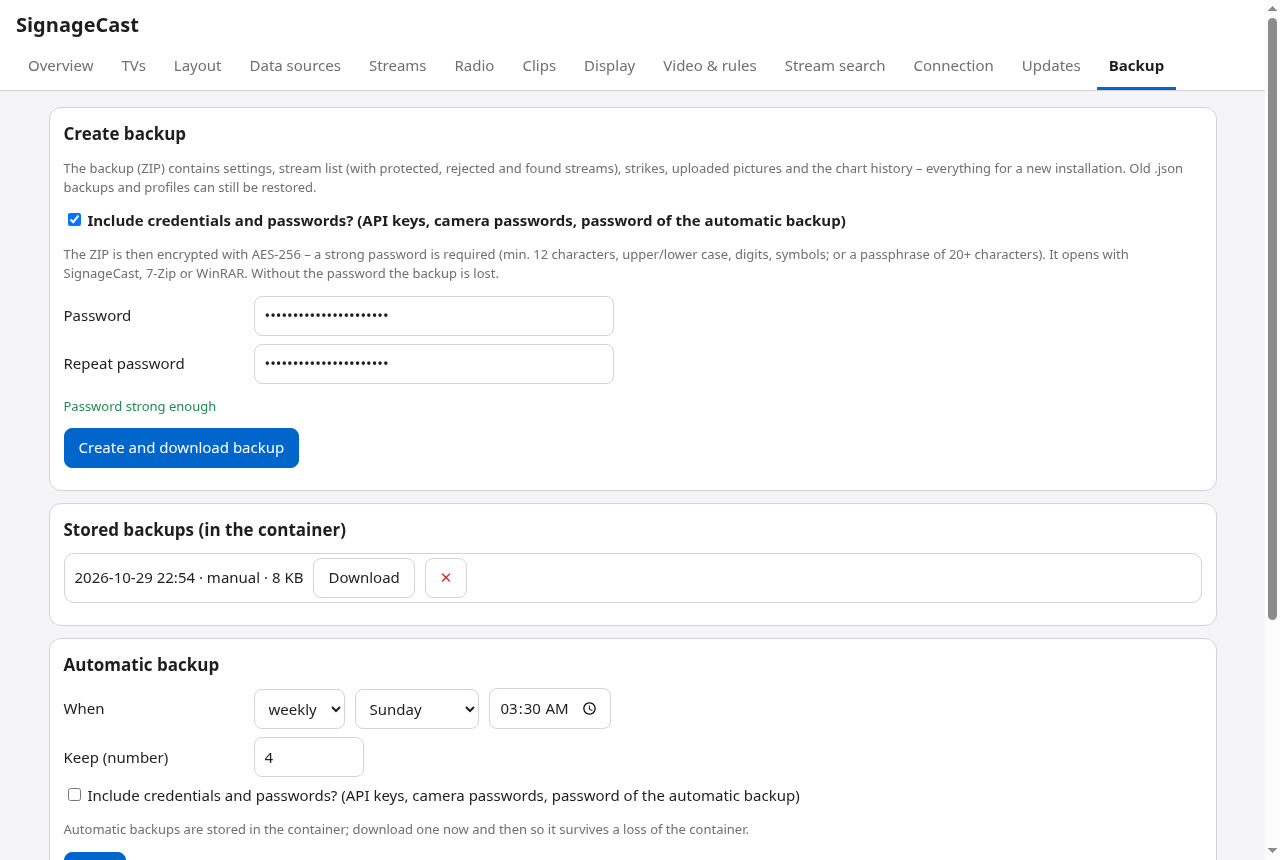
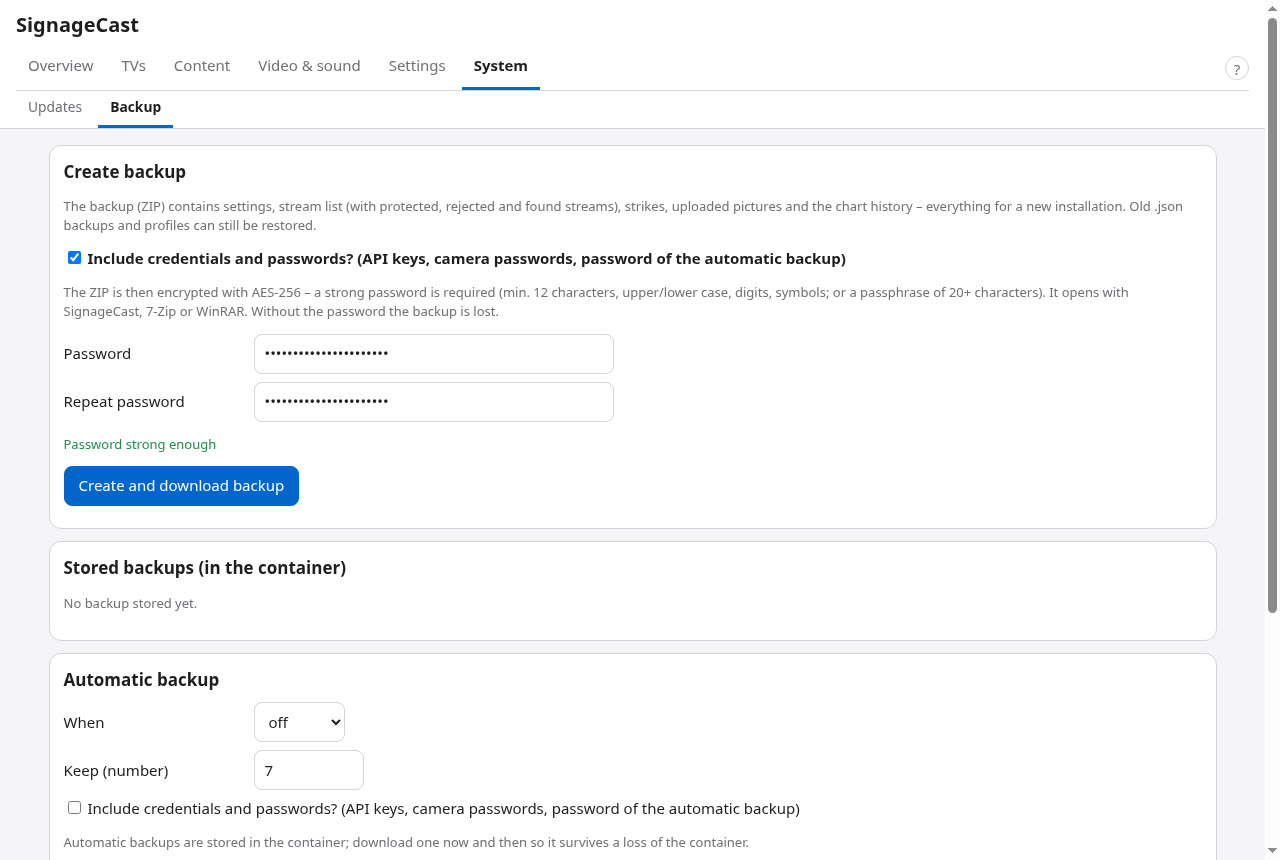
0.17: Korrekturen nach Test auf CT 104, Tour-Bilder und Doku zur neuen Navigation, Version 0.17.0
Gefunden im Test: Empfänger stand unter „Erweitert“, Anzeige-Karte ohne Überschrift und
Knopf außerhalb, HA-Wettertext auch bei MET, doppelter Knopf im Assistenten, alte Verweise
auf „Verbindung“/„Anzeige“.

Claude-Session: https://claude.ai/code/session_01LNDhmfSQXqarshduJ2BAH1

diff --git a/cockpit/signagecast/tv.js b/cockpit/signagecast/tv.js
@@ -53,7 +53,7 @@ const TEXTE = {
     epFernseher: "Fernseher (keiner gewählt = alle)", epAktiv: "aktiv", epJetzt: "Jetzt zeigen", epJetztOk: "Läuft in bis zu 15 s am Fernseher",
     epStand: "Stand", epFehler: "Fehler", epKeine: "Noch keine Einspieler.",
     wetterQuelle: "Wetterquelle", wetterQuelleArt: { met: "Eigenes Wetter (MET Norway, für den Standort)", ha: "Home Assistant (Wetter-Entität)" },
-    metText: "Wetter, Wetterbild und Vorhersage kommen direkt von MET Norway (kostenlos, weltweit) für den Standort im Reiter „Verbindung“ – Home Assistant ist dafür nicht nötig. Am Fernseher steht klein „Wetterdaten: MET Norway“ (Lizenzbedingung).",
+    metText: "Wetter, Wetterbild und Vorhersage kommen direkt von MET Norway (kostenlos, weltweit) für den Standort (unten auf dieser Seite) – Home Assistant ist dafür nicht nötig. Am Fernseher steht klein „Wetterdaten: MET Norway“ (Lizenzbedingung).",
     bnTitel: "Benachrichtigungen", bnText: "SignageCast meldet sich bei Ausfall eines Fernsehers, fehlgeschlagenem Update oder Sicherung und wenn Home Assistant länger als 5 Minuten nicht erreichbar ist – jeweils einmal, mit Entwarnung.",
     bnTelegram: "Telegram", bnBotToken: "Bot-Token", bnChatId: "Chat-ID", bnEmail: "E-Mail (SMTP)", bnServer: "SMTP-Server", bnPort: "Port",
     bnSicherheit: "Verschlüsselung", bnBenutzer: "Benutzer", bnPasswort: "Passwort", bnAbsender: "Absender", bnEmpfaenger: "Empfänger (mit Komma trennen)",
@@ -86,7 +86,7 @@ const TEXTE = {
     neueVersion: (v) => `Neue Version ${v} verfügbar`, updateText: "Zum Aktualisieren den Befehl als root im Container ausführen (Einstellungen und Daten bleiben).",
     updateTextContainer: "Zum Aktualisieren das neue Image holen und den Container neu erstellen (Einstellungen und Daten im Volume bleiben):",
     systemSeitenContainer: "Protokolle: docker logs signagecast (bzw. podman logs). Neustart und Update über Docker/Podman.",
-    passwortHinweisContainer: "Hinweis: Du meldest dich noch mit dem Startpasswort aus dem Protokoll an – bitte unter „Verbindung“ ein eigenes festlegen.",
+    passwortHinweisContainer: "Hinweis: Du meldest dich noch mit dem Startpasswort aus dem Protokoll an – bitte unter System → Zugang ein eigenes festlegen.",
     verwaltungTitel: "Anmeldung an der Verwaltung", pwAlt: "Bisheriges Passwort", pwNeu: "Neues Passwort (mind. 8 Zeichen)",
     pwAendern: "Passwort ändern", pwGeaendert: "Passwort geändert", abmelden: "Abmelden",
     kodierungKarte: "Videokodierung", kodierungArt: { vaapi: "Grafikeinheit (VAAPI)", software: "Software (CPU)" },
@@ -209,7 +209,7 @@ const TEXTE = {
     epFernseher: "TVs (none selected = all)", epAktiv: "active", epJetzt: "Show now", epJetztOk: "Plays on the TV within 15 s",
     epStand: "Version", epFehler: "Error", epKeine: "No clips yet.",
     wetterQuelle: "Weather source", wetterQuelleArt: { met: "Own weather (MET Norway, for the location)", ha: "Home Assistant (weather entity)" },
-    metText: "Weather, weather picture and forecast come directly from MET Norway (free, worldwide) for the location in the “Connection” tab – Home Assistant is not needed for this. The TV shows a small “Weather data: MET Norway” (licence requirement).",
+    metText: "Weather, weather picture and forecast come directly from MET Norway (free, worldwide) for the location (further down on this page) – Home Assistant is not needed for this. The TV shows a small “Weather data: MET Norway” (licence requirement).",
     bnTitel: "Notifications", bnText: "SignageCast reports when a TV fails, an update or backup fails, and when Home Assistant is unreachable for more than 5 minutes – once each, with an all-clear.",
     bnTelegram: "Telegram", bnBotToken: "Bot token", bnChatId: "Chat ID", bnEmail: "E-mail (SMTP)", bnServer: "SMTP server", bnPort: "Port",
     bnSicherheit: "Encryption", bnBenutzer: "User", bnPasswort: "Password", bnAbsender: "Sender", bnEmpfaenger: "Recipients (comma separated)",
@@ -274,7 +274,7 @@ const TEXTE = {
     neueVersion: (v) => `New version ${v} available`, updateText: "To update, run this command as root inside the container (settings and data are kept).",
     updateTextContainer: "To update, pull the new image and recreate the container (settings and data in the volume are kept):",
     systemSeitenContainer: "Logs: docker logs signagecast (or podman logs). Restart and update via Docker/Podman.",
-    passwortHinweisContainer: "Note: you are still using the initial password from the log – please set your own under “Connection”.",
+    passwortHinweisContainer: "Note: you are still using the initial password from the log – please set your own under System → Access.",
     verwaltungTitel: "Admin login", pwAlt: "Current password", pwNeu: "New password (min. 8 characters)",
     pwAendern: "Change password", pwGeaendert: "Password changed", abmelden: "Log out",
     kodierungKarte: "Video encoding", kodierungArt: { vaapi: "Graphics unit (VAAPI)", software: "Software (CPU)" },
@@ -527,7 +527,7 @@ async function assistent(inhalt, n = 1) {
     inhalt.innerHTML = `<div class="karte assistent">${kopf}<p>${esc(T.as.ort)}</p>
       <div class="zeile"><input type="text" id="asOrt" data-frei placeholder="${esc(T.ortSuche)}" value="${esc(E.standort.name || "")}">
         <button class="knopf" id="asSuchen">${esc(T.suchen)}</button></div><div id="asOrte"></div>
-      <p class="leise" id="asStand">${E.standort.name ? esc(E.standort.name) + " · " : ""}${E.standort.breite} / ${E.standort.laenge}</p>${fuss(true, true)}</div>`;
+      <p class="leise" id="asStand">${E.standort.name ? esc(E.standort.name) + " · " : ""}${E.standort.breite} / ${E.standort.laenge}</p>${fuss()}</div>`;
     const suchen = (e) => aktion(e.target, async () => {
       const r = await holen("/api/ort/suche?q=" + encodeURIComponent($("#asOrt").value));
       if (!r.ok) throw new Error(r.fehler);
@@ -783,16 +783,16 @@ function streamKarte(s) {
 async function anzeige(inhalt) {
   const ents = await entitaeten();
   inhalt.innerHTML = `<datalist id="ents">${ents.filter((x) => x.id.startsWith("weather.")).map((x) => `<option value="${esc(x.id)}">${esc(x.name)}</option>`).join("")}</datalist>
-    <div class="karte">
+    <div class="karte"><h2>${esc(T.reiter.anzeige)}</h2>
       <div class="zeile"><label>${esc(T.sprache)}</label><select id="sprache"><option value="de">Deutsch</option><option value="en">English</option></select></div>
       <div class="zeile"><label>${esc(T.wetterQuelle)}</label><select id="wetterQ" class="breit">${Object.keys(T.wetterQuelleArt).map((k) =>
         `<option value="${k}" ${k === E.anzeige.wetter_quelle ? "selected" : ""}>${esc(T.wetterQuelleArt[k])}</option>`).join("")}</select></div>
       <p class="leise" id="metText">${esc(T.metText)}</p>
       <div class="zeile" id="haZeile"><label>${esc(T.wetter)}</label><input type="text" id="wetter" list="ents" value="${esc(E.anzeige.wetter)}"></div>
-      <p class="leise">${esc(T.wetterText)}</p></div>
-    <div class="zeile"><button class="knopf haupt" id="okAnz">${esc(T.speichern)}</button></div>`;
+      <p class="leise" id="haText">${esc(T.wetterText)}</p>
+      <div class="zeile"><button class="knopf haupt" id="okAnz">${esc(T.speichern)}</button></div></div>`;
   $("#sprache").value = E.sprache || "de";
-  const sicht = () => { const ha = $("#wetterQ").value === "ha"; $("#haZeile").style.display = ha ? "" : "none"; $("#metText").style.display = ha ? "none" : ""; };
+  const sicht = () => { const ha = $("#wetterQ").value === "ha"; $("#haZeile").style.display = ha ? "" : "none"; $("#haText").style.display = ha ? "" : "none"; $("#metText").style.display = ha ? "none" : ""; };
   $("#wetterQ").onchange = sicht; sicht();
   $("#okAnz").onclick = async (e) => {
     await speichernE({ sprache: $("#sprache").value, anzeige: { wetter_quelle: $("#wetterQ").value, wetter: $("#wetter").value } }, e.target);
@@ -899,11 +899,11 @@ async function verbindung(inhalt, teil = "ha") {
         <input type="number" id="bnEmPort" min="1" max="65535" value="${B.email.port}" aria-label="${esc(T.bnPort)}"></div>
       <div class="zeile"><label>${esc(T.bnBenutzer)}</label><input type="text" id="bnEmBenutzer" value="${esc(B.email.benutzer)}" autocomplete="off"></div>
       <div class="zeile"><label>${esc(T.bnPasswort)}</label><input type="password" id="bnEmPw" value="${esc(B.email.passwort)}" autocomplete="new-password"></div>
+      <div class="zeile"><label>${esc(T.bnEmpfaenger)}</label><input type="text" id="bnEmAn" value="${esc(B.email.empfaenger)}"></div>
       <details class="erweitert"><summary>${esc(T.erweitert)}</summary>
       <div class="zeile"><label>${esc(T.bnSicherheit)}</label><select id="bnEmSich">${["starttls", "ssl", "keine"].map((v) =>
         `<option value="${v}" ${B.email.sicherheit === v ? "selected" : ""}>${v === "keine" ? "–" : v.toUpperCase()}</option>`).join("")}</select></div>
       <div class="zeile"><label>${esc(T.bnAbsender)}</label><input type="text" id="bnEmVon" value="${esc(B.email.absender)}"></div></details>
-      <div class="zeile"><label>${esc(T.bnEmpfaenger)}</label><input type="text" id="bnEmAn" value="${esc(B.email.empfaenger)}"></div>
       <div class="zeile"><button class="knopf" data-test="email">${esc(T.bnTest)}</button></div>
       <h3>${esc(T.bnHA)}</h3>
       <div class="zeile"><label><input type="checkbox" id="bnHaAktiv" ${B.ha.aktiv ? "checked" : ""}> ${esc(T.bnAktiv)}</label></div>

diff --git a/cockpit/signagecast/layout.js b/cockpit/signagecast/layout.js
@@ -46,7 +46,7 @@ const LTEXTE = {
            inhalt: "Inhalt (Text, Link oder WLAN-Daten)", beschriftung: "Beschriftung",
            immer: "auch ohne Warnung zeigen", ton: "mit Ton", stunden: "Zeitraum (Stunden)", url: "Adresse", neu_laden_min: "neu laden alle (min, 0 = nie)", zoom: "Zoom (%)",
            versatz_x: "Ausschnitt: von links (px)", versatz_y: "Ausschnitt: von oben (px)" },
-    optHilfe: { temperatur: "leer = Wetter aus „Anzeige“; oder ein Temperatur-Sensor", kamera: "z. B. Türklingel – mit Bedingung nur bei Klingeln zeigen",
+    optHilfe: { temperatur: "leer = Wetter aus Einstellungen → Allgemein; oder ein Temperatur-Sensor", kamera: "z. B. Türklingel – mit Bedingung nur bei Klingeln zeigen",
                 meldung: "Text-Entität in HA (z. B. input_text.tv_meldung). Ändert sich der Text, erscheint er als Banner.",
                 kalender: "Kalender-Entität, z. B. Müllabfuhr (Waste Collection Schedule) oder Familienkalender – oder eine iCal-Datenquelle (dann ohne HA)",
                 apiwert: "Wert aus einer Datenquelle (Reiter „Datenquellen“). Vorlage mit Platzhaltern, z. B. „{value} cm“ oder „{a.b} · {c}“; {quelle:pfad} holt Werte aus anderen Quellen.",
@@ -107,7 +107,7 @@ const LTEXTE = {
            inhalt: "Content (text, link or Wi-Fi data)", beschriftung: "Caption",
            immer: "show also without warning", ton: "with sound", stunden: "Period (hours)", url: "Address", neu_laden_min: "reload every (min, 0 = never)", zoom: "Zoom (%)",
            versatz_x: "Crop: from left (px)", versatz_y: "Crop: from top (px)" },
-    optHilfe: { temperatur: "empty = weather from “Display”; or a temperature sensor", kamera: "e.g. doorbell – with a condition only when it rings",
+    optHilfe: { temperatur: "empty = weather from Settings → General; or a temperature sensor", kamera: "e.g. doorbell – with a condition only when it rings",
                 meldung: "Text entity in HA (e.g. input_text.tv_message). When the text changes it appears as a banner.",
                 kalender: "Calendar entity, e.g. waste collection or family calendar – or an iCal data source (then without HA)",
                 apiwert: "Value from a data source (tab “Data sources”). Template with placeholders, e.g. “{value} cm” or “{a.b} · {c}”; {source:path} takes values from other sources.",

diff --git a/docs/MANUAL.md b/docs/MANUAL.md
@@ -15,16 +15,18 @@ that video, so the TV needs no app, no login and no updates.
 
 ## 2. Admin tabs at a glance
 
-| Tab | What you do there |
-|---|---|
-| **Overview** | State of every TV, viewers, CPU/RAM, time check, Home Assistant connection |
-| **TVs** | Address, layout, schedule, carousel, sound, video source (YouTube / own media / mixed), quality |
-| **Layout** | Drag elements on a 48 × 27 grid, templates, export/import with pictures |
-| **Data sources** | JSON APIs, feeds, pictures, iCal calendars, cameras; import from `curl` |
-| **Media** | Upload own pictures and videos for the video window |
-| **Streams / Radio / Clips** | Live cams, radio stations, scheduled clips (e.g. news) |
-| **Connection** | Home Assistant, location, time source, **notifications**, **message via webhook** |
-| **Updates / Backup** | Signed updates, maintenance window, encrypted backups |
+| Area | Pages | What you do there |
+|---|---|---|
+| **Overview** | – | To-do list (problems first, then tips), state of every TV, viewers, CPU/RAM, time check, Home Assistant |
+| **TVs** | – | Address, layout, schedule, carousel, sound, video source (YouTube / own media / mixed), quality |
+| **Content** | Layouts · Data sources · Media · Clips | Layout editor and templates, JSON APIs/feeds/iCal/cameras, own pictures and videos, scheduled clips |
+| **Video & sound** | Streams · Rules · Search · Radio | Live cams, rotation and quality rules, nightly search, radio stations |
+| **Settings** | General · Home Assistant · Notifications | Language, weather, location, time source; HA address and guide; Telegram/e-mail/HA and webhook |
+| **System** | Updates · Backup (· Access in Docker) | Signed updates, maintenance window, encrypted backups, admin password |
+
+Every page has its own address (e.g. `…/index.html#benachrichtigung`). Unsaved changes are marked on their card;
+rarely needed options are folded under “Advanced”. On a new installation a short assistant asks for language,
+location and (optionally) Home Assistant and shows the TV address.
 
 ## 3. Typical tasks
 
@@ -40,12 +42,12 @@ H.265 videos are refused – convert them first, e.g. `ffmpeg -i in.mp4 -c:v lib
 
 ### Severe weather warnings (Germany)
 Layout → add the element **“Weather warning (DWD)”**. It shows the official warnings of the Deutscher Wetterdienst for
-the configured location (Connection → Location), coloured by level (1 yellow, 2 orange, 3 red, 4 dark purple). Without a warning the element is hidden – or tick
+the configured location (Settings → General → Location), coloured by level (1 yellow, 2 orange, 3 red, 4 dark purple). Without a warning the element is hidden – or tick
 “show also without warning”. The data are fetched every
 10 minutes and only while a layout uses the element. Outside Germany there are no data.
 
 ### Put a short message on all TVs (webhook)
-Connection → *Message via webhook* → **Create new key**. The key is shown **only once** – store it, e.g. in a password
+Settings → Notifications → *Message via webhook* → **Create new key**. The key is shown **only once** – store it, e.g. in a password
 manager. Then any system in your network can send:
 
 ```sh
@@ -83,7 +85,7 @@ with `signagecast_webhook: "Bearer <key>"` in `secrets.yaml`, and in an automati
 `action: rest_command.signagecast_meldung` with `data: {text: "Doorbell", stil: warnung}`.
 
 ### Get notified when something breaks
-Connection → *Notifications*. Channels (any combination):
+Settings → Notifications. Channels (any combination):
 
 - **Telegram:** create a bot with @BotFather, copy the bot token; send the bot a message and read your chat id, e.g.
   from `https://api.telegram.org/bot<token>/getUpdates`. Group chats have negative ids.
@@ -137,7 +139,7 @@ It is never shown again. Create a new one and update the senders.
 
 Das Handbuch erklärt den Alltag: Zeitplan und Karussell je Fernseher, eigene Medien (H.264, kein H.265),
 **Unwetterwarnungen des DWD** als Layout-Baustein (Stufenfarben, nur Deutschland, Abruf alle 10 min nur bei Nutzung),
-**Meldung per Webhook** (Schlüssel in „Verbindung“ erzeugen – wird nur einmal angezeigt –, dann
+**Meldung per Webhook** (Schlüssel unter Einstellungen → Benachrichtigungen erzeugen – wird nur einmal angezeigt –, dann
 `POST http://<IP>:8890/meldung` mit `Authorization: Bearer <Schlüssel>` und JSON `text`, `dauer`, `stil`, optional `tv`;
 Beispiel für Home Assistant oben) und **Benachrichtigungen** über Telegram, E-Mail (SMTP) und Home Assistant bei
 Ausfall eines Fernsehers, Update- oder Sicherungsfehler und getrenntem Home Assistant – je einmal, mit Entwarnung,

diff --git a/docs/TOUR.md b/docs/TOUR.md
@@ -1,7 +1,9 @@
 # SignageCast – screenshot tour
 
 A walk through SignageCast: what the TV shows and how you set it up in the browser. All pictures are from a demo
-installation (location Berlin, public example data, no Home Assistant connected) running version 0.13.
+installation (location Berlin, public example data, no Home Assistant connected). The admin pages overview, TVs,
+settings, notifications, backup and phone show version 0.17 with its six areas (Overview, TVs, Content, Video & sound,
+Settings, System); the content pages are from version 0.13 and look the same apart from the navigation bar.
 
 [← back to the README](../README.md)
 
@@ -33,7 +35,8 @@ next to Cockpit's own pages. If your server already runs Cockpit, SignageCast in
 ![SignageCast as a menu entry in Cockpit](tour/03-cockpit.jpg)
 
 ### 4. Overview
-Every TV with its state and sound, viewers, weather source, time check against NTP (“time from the host,
+At the top a **to-do list**: problems first (e.g. Home Assistant not reachable), then tips (automatic backup off, no
+notification set up) – each entry links to the page where you fix it. Below, every TV with its state and sound, viewers, weather source, time check against NTP (“time from the host,
 synchronised”), video encoding (graphics unit or software fallback), Home Assistant connection, CPU, RAM, uptime.
 
 ![Overview](tour/04-overview.jpg)
@@ -82,11 +85,12 @@ container preloads each new edition (complete or only the first MB), so the clip
 
 ![Clip settings with buffer](tour/11-clips.jpg)
 
-### 12. Connection
-Home Assistant address (optional), location by place search, time source: NTP server (default: the country pool) and
-time zone – if the host keeps its clock synchronised, nothing is corrected.
+### 12. Settings → General
+Language and weather source, location by place search, time source: NTP server (default: the country pool) and time
+zone – if the host keeps its clock synchronised, nothing is corrected. Home Assistant has its own page next to it.
+Unsaved changes are marked on their card, and you are asked before leaving the page.
 
-![Connection and time source](tour/12-connection.jpg)
+![Settings: display, location and time source](tour/12-settings.jpg)
 
 ### 13. Updates
 System (Debian) and SignageCast updates with one click or automatically within a maintenance window, only while
@@ -109,17 +113,24 @@ initial password is printed in the container log.
 ![Login page of the container image](tour/15-docker-login.jpg)
 
 ### 16. On the phone
-The admin works on a phone as well – switch elements on and off, change sizes, sound, sources.
+The admin works on a phone as well – the areas become one menu; switch elements on and off, change sizes, sound, sources.
 
 <img src="tour/16-mobile.jpg" width="320" alt="Admin on a phone">
+
+### 17. Notifications and webhook
+Telegram, e-mail (SMTP) and Home Assistant, each with a test button; rarely needed options under “Advanced”. Below,
+the webhook for short messages on the TVs (key shown only once).
+
+![Notifications and webhook](tour/17-notifications.jpg)
 
 ---
 
 ## Deutsch (kurz)
 
-Die Tour zeigt zuerst zwei Fernseher – Live-Tierkamera mit Wetter und eigenen Daten (Rheinpegel, Bitcoin, Countdown)
+Die Verwaltung ist seit 0.17 in sechs Bereiche gegliedert (Übersicht mit „Zu erledigen“, Fernseher, Inhalte,
+Video & Ton, Einstellungen, System). Die Tour zeigt zuerst zwei Fernseher – Live-Tierkamera mit Wetter und eigenen Daten (Rheinpegel, Bitcoin, Countdown)
 sowie ein reines Daten-Layout (Diagramm mit echten Pegelwerten, Feiertage per iCal, Feed, QR-Code). Danach die
-Verwaltung: SignageCast als Menüpunkt in Cockpit, Übersicht, Fernseher, Layout-Editor mit Pfad-Auswahl, Datenquellen
+Verwaltung: SignageCast als Menüpunkt in Cockpit, Übersicht mit „Zu erledigen“, Fernseher, Layout-Editor mit Pfad-Auswahl, Datenquellen
 mit Antwort-Baum und curl-Import, Streams, Radio, Einspieler mit Puffer, Verbindung mit Zeitquelle, Updates
 (signiert, mit Rückkehr bei Fehlern), Sicherung (AES-256 mit Zugangsdaten), die Anmeldeseite im Docker-Betrieb und
-die Ansicht auf dem Handy. Alle Bilder stammen aus einer Demo-Installation ohne private Daten.
+die Ansicht auf dem Handy sowie Benachrichtigungen und Webhook. Alle Bilder stammen aus einer Demo-Installation ohne private Daten.

diff --git a/README.md b/README.md
@@ -41,6 +41,8 @@ Made for the living room, waiting rooms of practices and company receptions. Fre
   messages from other systems (e.g. Home Assistant) as a banner on the TVs via a webhook with a secret key; notifications
   via Telegram, e-mail or Home Assistant when a TV fails, an update or backup fails or Home Assistant is disconnected.
 - **Energy saving** – rendering runs only while someone watches; schedules can switch a TV to night mode or black.
+- **Clear admin** – six areas with a to-do list on the overview, setup assistant on a new installation, marked unsaved
+  changes, own address per page, one menu on the phone.
 - **Admin in Cockpit** – overview with preview picture, system pages, backup/restore, German and English.
 
 <p align="center"><img src="docs/firma.jpg" width="49%" alt="Company template"> <img src="docs/fenster.jpg" width="49%" alt="Window to the world template"></p>
@@ -116,7 +118,7 @@ or with [`compose.yaml`](compose.yaml): `docker compose up -d`. Podman: the same
 - `--device /dev/dri` passes the graphics through; leave it out on systems without Intel graphics (software fallback).
   Rootless Podman additionally needs `--group-add keep-groups`.
 - **Admin:** http://&lt;host&gt;:**19090** – the initial password is printed in the log: `docker logs signagecast`
-  (or set your own with `-e SC_PASSWORT=…`). Change it under **Connection**. No Cockpit inside the container.
+  (or set your own with `-e SC_PASSWORT=…`). Change it under **System → Access**. No Cockpit inside the container.
 - `SC_HOST_IP` = the IP of the Docker host; the Home Assistant guide in the admin shows it (HA sees the host's IP).
 - All settings and data are in the volume `/data`. **Update:** `docker pull ghcr.io/thefrozn/signagecast:latest`, then
   recreate the container (`docker compose up -d`, or `docker rm -f signagecast` and the `docker run` line again).
@@ -149,9 +151,11 @@ or with [`compose.yaml`](compose.yaml): `docker compose up -d`. Podman: the same
    password **tvadmin** – then please change it (top right → Accounts → tvadmin → Set password).
    (Native installation: the random password shown at the end of the installation, or your own Cockpit user.
    Docker / Podman: **http://&lt;host&gt;:19090**, password from the log – see above.)
-2. Menu **SignageCast → Connection**: enter the Home Assistant address and follow the guide shown there. Home Assistant
-   trusts the container via `trusted_networks` – no password or token is stored. Take the location from Home Assistant.
-3. **Display**: weather comes from MET Norway (or choose a Home Assistant weather entity). **Layout**: adapt the standard layout or start from a template.
+2. On a new installation a short **assistant** asks for language, location and (optionally) Home Assistant and shows
+   the TV address. Later: **Settings → Home Assistant** – enter the address and follow the guide shown there. Home
+   Assistant trusts the container via `trusted_networks` – no password or token is stored.
+3. **Settings → General**: weather comes from MET Norway (or choose a Home Assistant weather entity).
+   **Content → Layouts**: adapt the standard layout or start from a template.
 4. On the TV open **http://&lt;container-IP&gt;:8888/tv** in the browser and set it as start page.
 5. Optional: **Radio**, **Clips**, more **TVs**, schedules.
 
@@ -261,7 +265,7 @@ SignageCast einstellen. Docker/Podman nutzt 19090, weil auf vielen Servern Cockp
 Ohne Intel-Grafik läuft ein Notbetrieb mit H.264 in Full HD per CPU.
 
 Danach die Verwaltung öffnen (siehe Tabelle) und
-unter **Verbindung** Home Assistant einrichten (Anleitung steht dort), am Fernseher **http://&lt;IP&gt;:8888/tv** öffnen.
+unter **Einstellungen → Home Assistant** Home Assistant einrichten (bei Neuinstallation führt ein Assistent durch die ersten Schritte) (Anleitung steht dort), am Fernseher **http://&lt;IP&gt;:8888/tv** öffnen.
 Eigene Daten: Reiter **Datenquellen** (JSON-API, RSS-Feed, Bild; curl-Befehl einfügen, Wert im Antwort-Baum anklicken) und
 die Bausteine API-Wert, API-Liste, API-Bild, Anzeige (Balken/Ampel), Countdown, QR-Code sowie Platzhalter `{quelle:pfad}`.
 Dazu Kameras (RTSP/HLS/MJPEG), Verlauf-Diagramme, Kalender per iCal-Adresse und eingebettete Webseiten.

diff --git a/CHANGELOG.md b/CHANGELOG.md
@@ -1,5 +1,17 @@
 # Changelog
 
+## v0.17.0 (2026-10-31)
+- **Admin reorganised:** six areas instead of 14 tabs – Overview, TVs, Content (layouts, data sources, media, clips),
+  Video & sound (streams, rules, search, radio), Settings (general, Home Assistant, notifications), System (updates,
+  backup; Docker: access). Every page has its own address (e.g. `…#benachrichtigung`) for reload and bookmarks; on a
+  phone the areas become one menu. Old remembered tabs are redirected.
+- **To-do list** on the overview: problems first, then tips – each entry links to the right page.
+- **Unsaved changes** are marked on their card; you are asked before leaving the page.
+- Rarely needed options are folded under **“Advanced”** (stream rules, radio buffer, e-mail encryption and sender).
+- **Setup assistant** on a new installation: language, location, Home Assistant (optional), address for the TV.
+  Existing installations are not affected.
+- “?” in the navigation opens the manual.
+
 ## v0.16.0 (2026-10-30)
 - **Severe weather warnings (DWD):** new layout element with the official warnings of the Deutscher Wetterdienst for
   the location (Germany only), coloured by level; hidden without a warning or “show also without warning”. Fetched
